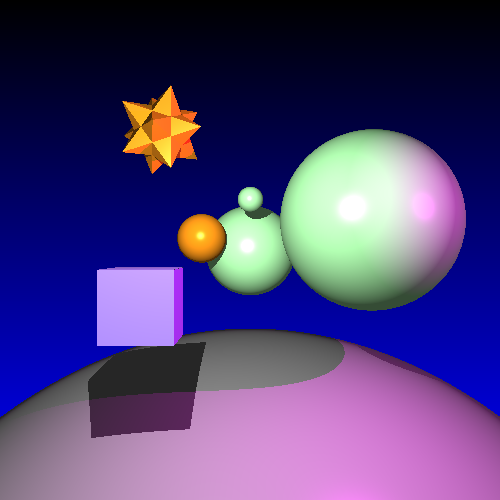
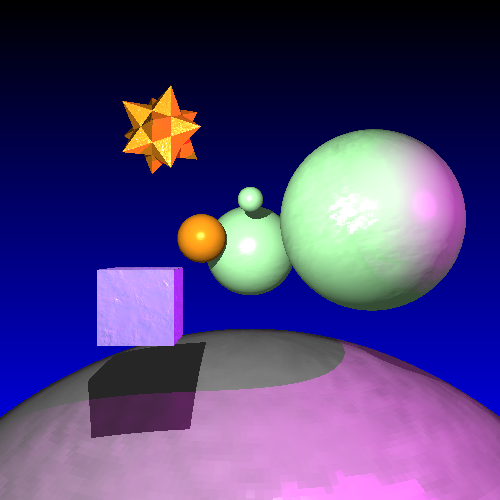
Bump Mapping
Added bump mapping.

Can specify a bump map (i.e. height map) for materials that will pertrub
the normals.

diff --git a/src/material.cpp b/src/material.cpp
@@ -1,10 +1,11 @@
 #include "material.hpp"
 #include "primitive.hpp"
+#include "light.hpp"
 
 PhongMaterial::PhongMaterial(const Colour& ks, double shininess,
                              double transparency, double refractiveIndex)
   : m_transparency(transparency), m_refractiveIndex(refractiveIndex),
-    m_ks(ks), m_shininess(shininess), m_tempDiffuse(0.0)
+    m_ks(ks), m_shininess(shininess), m_bump(false), m_bumpMap()
 {
 }
 
@@ -12,21 +13,75 @@ PhongMaterial::~PhongMaterial()
 {
 }
 
-void PhongMaterial::calcDiffuse(const Primitive* primitive, const Point3D& p)
+void PhongMaterial::bump(const std::string& filename)
 {
-  m_tempDiffuse = getDiffuse(primitive, p);
+  if (!m_bumpMap.loadPng(filename)) {
+    std::cerr << "No bump map file found: " << std::endl;
+    return;
+  }
+
+  m_bump = true;
 }
 
-Colour PhongMaterial::getCoefficient(const Vector3D& normal, const Vector3D& light, const Vector3D& view) const
+Colour PhongMaterial::getColour(const Vector3D& normal, const Vector3D& viewDirection,
+                                const std::list<Light*>& lights, const Colour& ambient, 
+                                const Point3D& poi, const Primitive* primitive) const
 {
-  Vector3D r = -light + 2 * (light.dot(normal)) * normal;
+  // Bump normal if need be.
+  Vector3D norm = normal;
+  if (m_bump) {
+    norm = bumpNormal(norm, primitive, poi);
+  }
 
-  return m_tempDiffuse + m_ks * ( pow(r.dot(view), m_shininess) / normal.dot(light) );
+  // Get diffuse coefficients
+  Colour kd = getDiffuse(primitive, poi);
+
+  // First add ambient light.
+  Colour c = kd * ambient;
+
+  for (std::list<Light*>::const_iterator it = lights.begin(); it != lights.end(); it++) {
+    Light* light = (*it);
+
+    Vector3D lightDirection = light->position - poi; // Note this needs to point towards the light.
+    lightDirection.normalize();
+
+    double dist = lightDirection.length();
+    Vector3D r = -lightDirection + 2 * (lightDirection.dot(norm)) * norm;
+
+    Colour contribution = (kd + m_ks * ( pow(r.dot(viewDirection), m_shininess) / norm.dot(lightDirection) )) *
+                          light->colour * lightDirection.dot(norm) * 
+                          (1 / (light->falloff[0] + light->falloff[1] * dist +
+                                light->falloff[2] * dist * dist)); 
+
+    // Ignore negative contributions
+    if (contribution.R() >= 0 && contribution.G() >= 0 && contribution.B() >= 0) {
+      c = c + contribution;
+    }
+  }
+
+  return c;
 }
 
-Colour PhongMaterial::getAmbient(const Colour& ambient) const
+Vector3D PhongMaterial::bumpNormal(const Vector3D& n, const Primitive* primitive, const Point3D& p) const
 {
-  return ambient * (m_tempDiffuse);
+  Point2D mapCoords = primitive->textureMapCoords(p);
+
+  int x = mapCoords[0] * (double)m_bumpMap.width();
+  int y = mapCoords[1] * (double)m_bumpMap.height();
+  
+  if (x < 0 || x > m_bumpMap.width() || y < 0 || y > m_bumpMap.height()) {
+    std::cerr << "Bad Texture Map Coordinates Returned: " << mapCoords[0] << " " << x
+              << " " << mapCoords[1] << " " << y << std::endl;
+  }
+
+  if (x == 0 || x == m_bumpMap.width() - 1 || y == 0 || y == m_bumpMap.height() - 1) {
+    return n;
+  }
+
+  double x_gradient = 2 * (m_bumpMap(x - 1, y, 0) - m_bumpMap(x + 1, y, 0));
+  double y_gradient = 2 * (m_bumpMap(x, y - 1, 0) - m_bumpMap(x, y + 1, 0));
+
+  return Vector3D(n[0] + x_gradient, n[1] + y_gradient, n[2]);
 }
 
 /*
@@ -62,7 +117,7 @@ TextureMap::TextureMap(const std::string& filename, const Colour& ks, double shi
     m_textureMap()
 {
   if (!m_textureMap.loadPng(filename)) {
-    std::cerr << "No png file found: " << filename << std::endl;
+    std::cerr << "No texture map file found: " << filename << std::endl;
   }
 }
 

diff --git a/src/scene_node.cpp b/src/scene_node.cpp
@@ -261,17 +261,12 @@ Colour GeometryNode::refractionContribution(const Vector3D& viewDirection, const
 Colour GeometryNode::getLightContribution(const Point3D& poi, const Vector3D& viewDirection, 
                                           const Vector3D& normal) const
 {
-  m_material->calcDiffuse(m_primitive, m_totalTransform * poi);
-  
-  // First add ambient light.
-  Colour c = m_material->getAmbient(m_scene->ambient);
-
-  // Using Phong Lighting Model
+  // Determine which lights are visible
+  std::list<Light*> lights; 
   for (std::list<Light*>::const_iterator it = m_scene->lights.begin(); it != m_scene->lights.end(); it++) {
     Light* light = (*it);
 
     Vector3D lightDirection = light->position - poi; // Note this needs to point towards the light.
-    double r = lightDirection.length();
     lightDirection.normalize();
 
     // Check if we get a contribution from this light (i.e. check if any objects are in the way)
@@ -286,15 +281,9 @@ Colour GeometryNode::getLightContribution(const Point3D& poi, const Vector3D& vi
       continue;
     }
 
-    Colour contribution = m_material->getCoefficient(normal, lightDirection, viewDirection) * 
-                          light->colour * lightDirection.dot(normal) * 
-                          (1 / (light->falloff[0] + light->falloff[1] * r + light->falloff[2] * r * r)); 
-
-    // Ignore negative contributions
-    if (contribution.R() >= 0 && contribution.G() >= 0 && contribution.B() >= 0) {
-      c = c + contribution;
-    }
+    lights.push_back(light);
   }
 
-  return c;
+  return m_material->getColour(normal, viewDirection, lights, m_scene->ambient,
+                               m_totalTransform * poi, m_primitive);
 }

diff --git a/src/material.hpp b/src/material.hpp
@@ -3,8 +3,10 @@
 
 #include "algebra.hpp"
 #include "image.hpp"
+#include <list>
 
 class Primitive;
+class Light;
 
 class PhongMaterial {
  public:
@@ -12,10 +14,11 @@ class PhongMaterial {
                 double transparency, double refractiveIndex);
   virtual ~PhongMaterial();
 
-  void calcDiffuse(const Primitive* primitive, const Point3D& p);
-  Colour getCoefficient(const Vector3D& normal, const Vector3D& light,
-                        const Vector3D& view) const;
-  Colour getAmbient(const Colour& ambient) const;
+  Colour getColour(const Vector3D& normal, const Vector3D& viewDirection,
+                   const std::list<Light*>& lights, const Colour& ambient,
+                   const Point3D& poi, const Primitive* primitive) const;
+
+  void bump(const std::string& filename);
 
   const double m_transparency;
   const double m_refractiveIndex;
@@ -27,7 +30,10 @@ class PhongMaterial {
   double m_shininess;
 
  private:
-  Colour m_tempDiffuse;
+  Vector3D bumpNormal(const Vector3D& n, const Primitive* primitive, const Point3D& p) const;
+
+  bool m_bump;
+  Image m_bumpMap;
 };
 
 class BasicMaterial : public PhongMaterial {

diff --git a/src/scene_lua.cpp b/src/scene_lua.cpp
@@ -595,6 +595,23 @@ int gr_node_gc_cmd(lua_State* L)
   return 0;
 }
 
+// Give a material a bump map
+extern "C"
+int gr_bump_cmd(lua_State* L)
+{
+  GRLUA_DEBUG_CALL;
+  
+  gr_material_ud* data = (gr_material_ud*)luaL_checkudata(L, 1, "gr.material");
+  luaL_argcheck(L, data != 0, 1, "Material expected");
+
+  PhongMaterial* m = data->material;
+
+  const char* filename = luaL_checkstring(L, 2);
+  m->bump(filename);
+
+  return 0;
+}
+
 // This is where all the "global" functions in our library are
 // declared.
 // If you want to add a new non-member function, add it here.
@@ -612,6 +629,7 @@ static const luaL_reg grlib_functions[] = {
   {"nh_box", gr_nh_box_cmd},
   {"mesh", gr_mesh_cmd},
   {"light", gr_light_cmd},
+  {"bump", gr_bump_cmd},
   {0, 0}
 };
 
@@ -652,7 +670,6 @@ Scene* import_lua(const std::string& filename)
   luaL_openlibs(L);
 
   GRLUA_DEBUG("Setting up our functions");
-
 
   // Set up the metatable for gr.node
   luaL_newmetatable(L, "gr.node");
